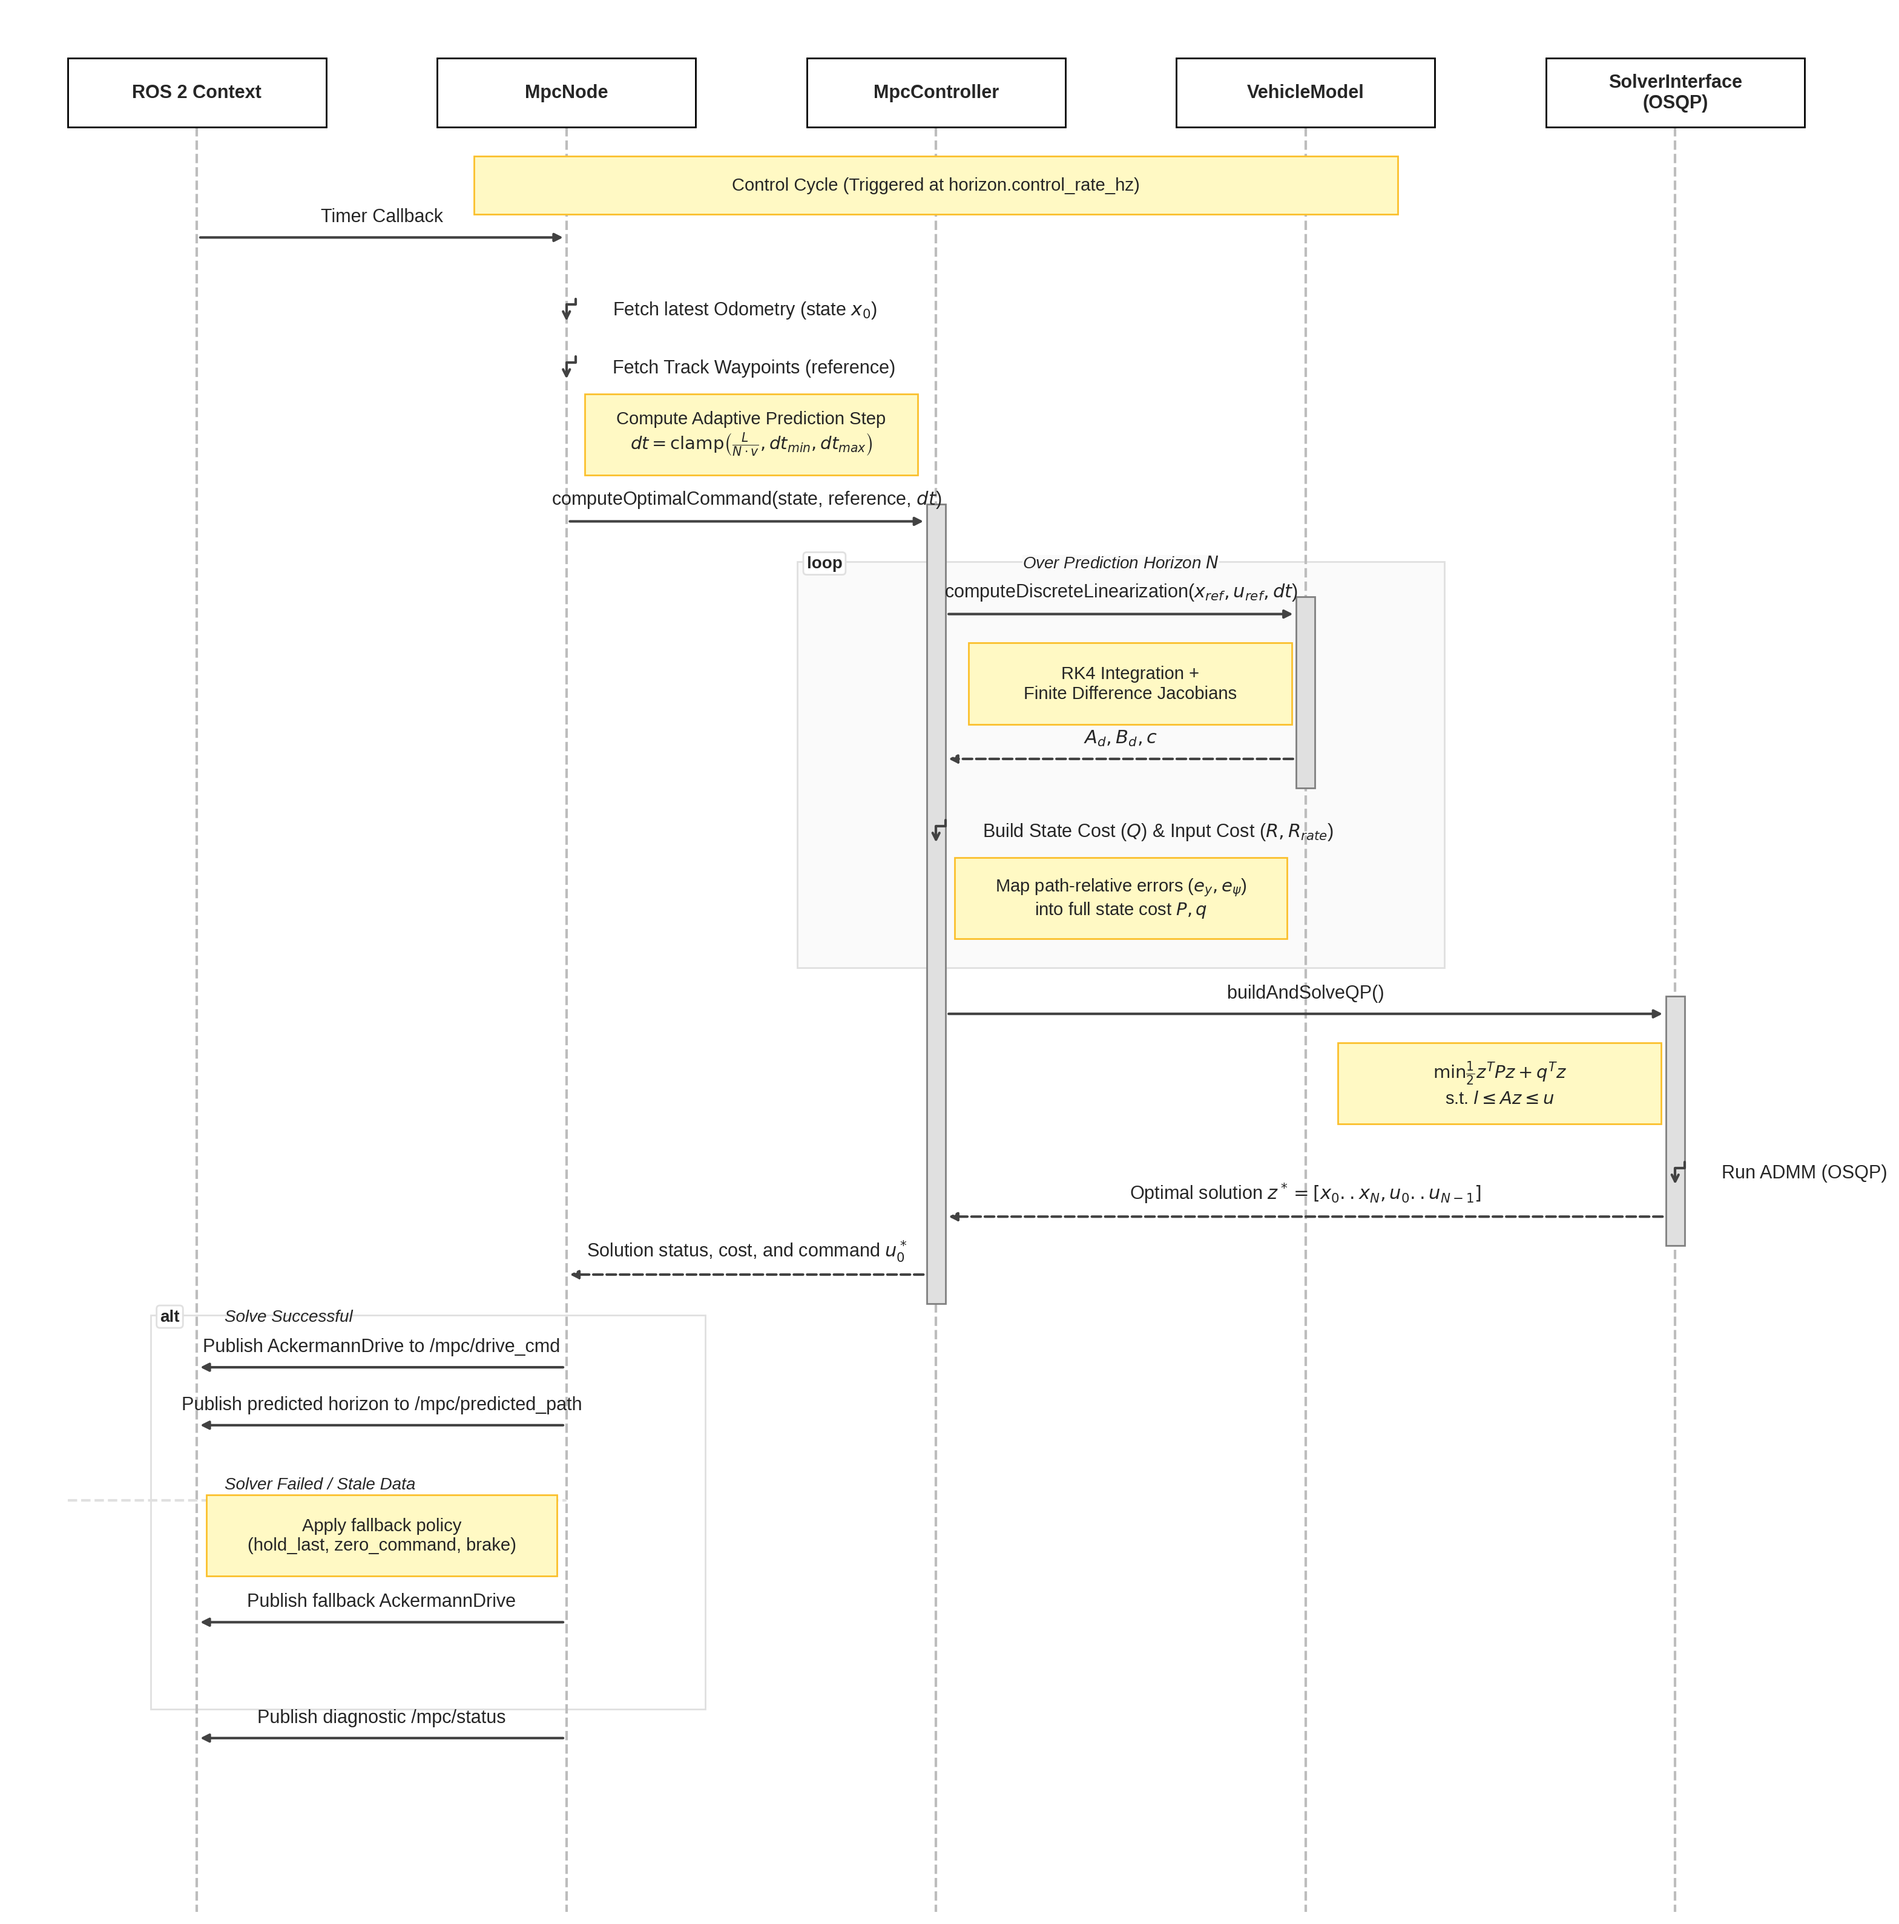
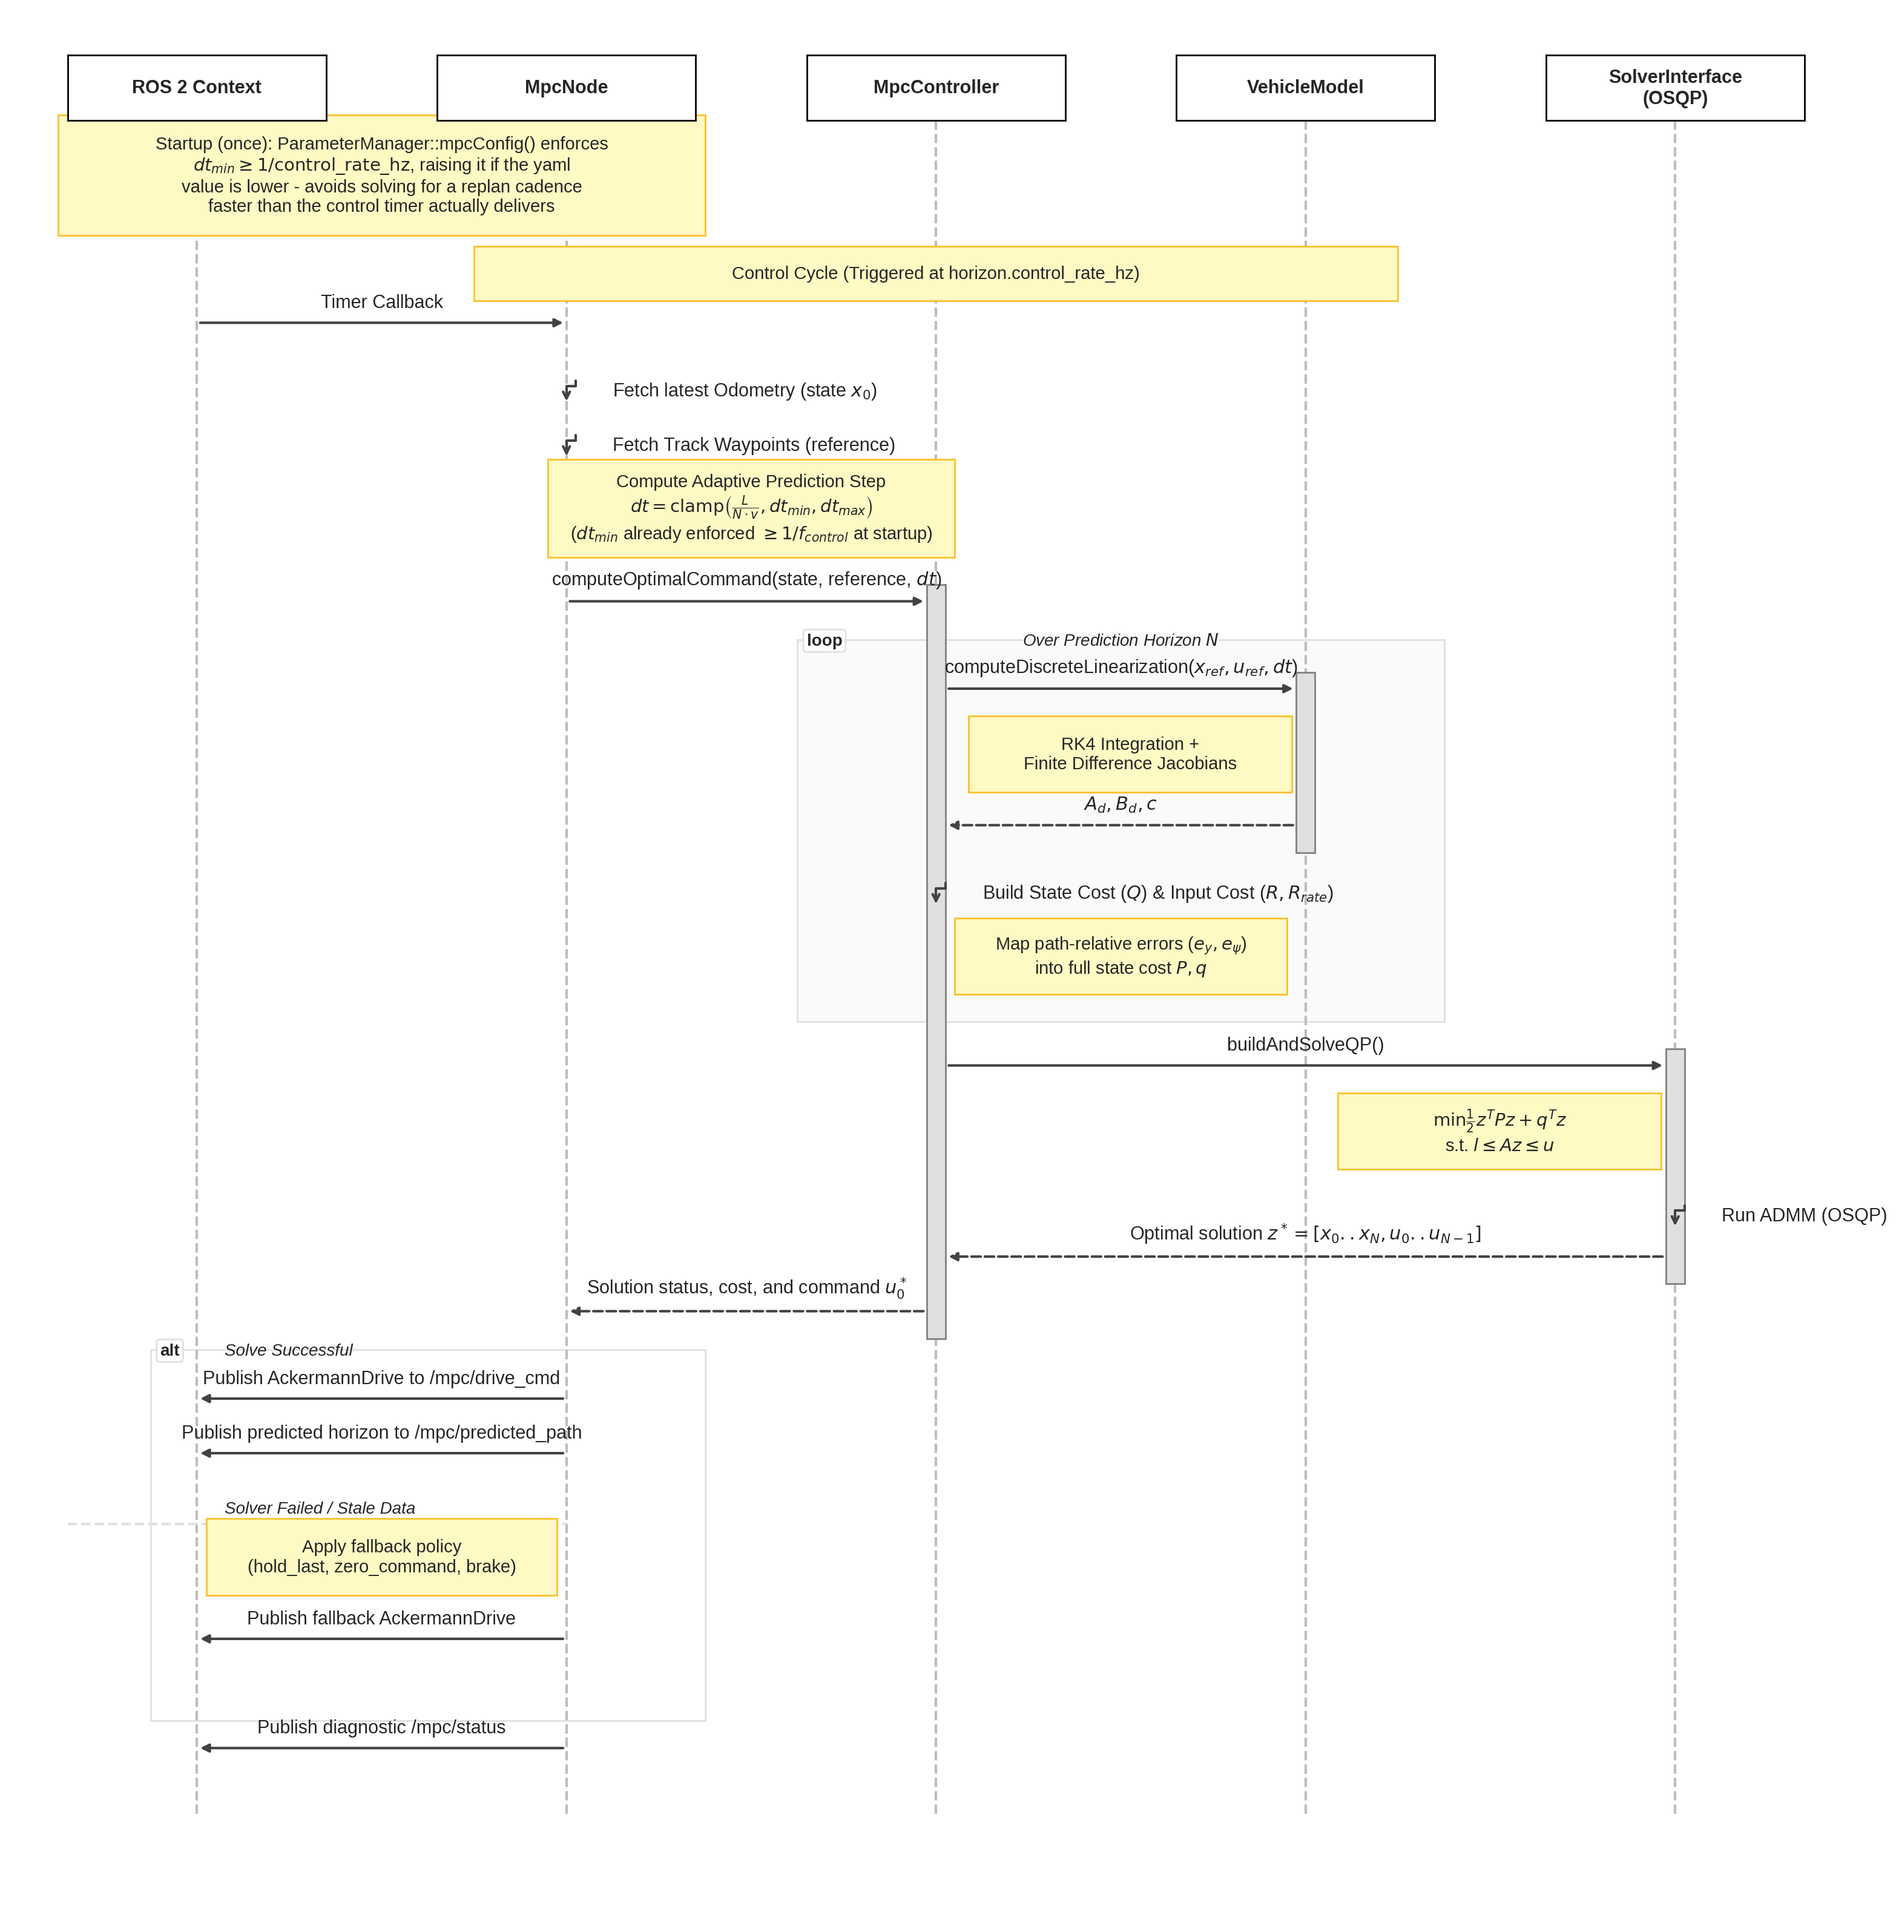
[Adjust] MPC sequence

diff --git a/docs/scripts/plot_mpc_sequence.py b/docs/scripts/plot_mpc_sequence.py
@@ -96,7 +96,14 @@ def draw_activation(x, y_start, y_end):
 
 # ── Sequence Diagram Steps ──
 
-y = draw_note((participants["ROS 2 Context"] + participants["SolverInterface\n(OSQP)"]) / 2, y, 
+y = draw_note((participants["ROS 2 Context"] + participants["MpcNode"]) / 2, y,
+              r"Startup (once): ParameterManager::mpcConfig() enforces" + "\n" +
+              r"$dt_{min} \geq 1/\mathrm{control\_rate\_hz}$, raising it if the yaml" + "\n" +
+              r"value is lower - avoids solving for a replan cadence" + "\n" +
+              r"faster than the control timer actually delivers", width=7.0)
+y -= 0.3
+
+y = draw_note((participants["ROS 2 Context"] + participants["SolverInterface\n(OSQP)"]) / 2, y,
               r"Control Cycle (Triggered at horizon.control_rate_hz)", width=10)
 
 y = draw_arrow(participants["ROS 2 Context"], participants["MpcNode"], y, "Timer Callback")
@@ -104,9 +111,10 @@ y = draw_arrow(participants["MpcNode"], participants["MpcNode"], y, r"Fetch late
 y = draw_arrow(participants["MpcNode"], participants["MpcNode"], y, r"Fetch Track Waypoints (reference)")
 
 y -= 0.4
-y = draw_note(participants["MpcNode"] + 2.0, y, 
+y = draw_note(participants["MpcNode"] + 2.0, y,
               "Compute Adaptive Prediction Step\n"
-              r"$dt = \mathrm{clamp}\left(\frac{L}{N \cdot v}, dt_{min}, dt_{max}\right)$", width=3.6)
+              r"$dt = \mathrm{clamp}\left(\frac{L}{N \cdot v}, dt_{min}, dt_{max}\right)$" + "\n"
+              r"($dt_{min}$ already enforced $\geq 1/f_{control}$ at startup)", width=4.4)
 y -= 0.4
 
 y_activate_ctrl = y + 0.3

diff --git a/docs/mpc_path_tracking.md b/docs/mpc_path_tracking.md
@@ -185,9 +185,9 @@ This keeps the horizon's *look-ahead distance* roughly constant regardless of sp
 
 The MPC controller works by predicting exactly `N=30` steps into the future. If the time between these steps (`dt`) was fixed, the look-ahead distance would be dangerously short at low speeds and stretch too far off the track at high speeds. To solve this, we use a *dynamic* time step that shrinks as speed increases—acting like an automatic zoom lens to keep the car focused on the same stretch of road.
 
-* **Top Panel ($dt$ vs Speed):** At slow speeds, the time step is large (clamped at `dt_max=80ms`) to ensure the prediction reaches far enough ahead. As speed increases, the time step smoothly shrinks down to `dt_min=20ms` to prevent the predictions from stretching too far.
-* **Middle Panel (Look-ahead Distance vs Speed):** In the ideal driving range (roughly 1.2 m/s to 5 m/s), the dynamic `dt` perfectly balances the speed, resulting in a flat look-ahead distance of exactly 3.0 meters. Above 5 m/s, the time step hits its 20ms safety floor. Because `dt` can no longer shrink to compensate for the higher speed, the look-ahead distance naturally and safely increases, giving the fast-moving car more distance to react to upcoming corners.
-* **Bottom Panel (Spatial Coverage):** This demonstrates the physical result. Whether driving at 2 m/s or 7 m/s, the physical coverage of the prediction steps (the dots) remains consistent. The fast car simply executes its steps much more rapidly (every 20ms instead of 67ms) to maintain that coverage.
+* **Top Panel ($dt$ vs Speed):** At slow speeds, the time step is large (clamped at `dt_max=80ms`) to ensure the prediction reaches far enough ahead. As speed increases, the time step shrinks down to `dt_min`, whose floor is not a free tuning value — `ParameterManager::mpcConfig()` enforces `dt_min >= 1/control_rate_hz` at startup, so with the default `control_rate_hz=20` that floor is `50ms`, not the raw yaml default of `20ms`.
+* **Middle Panel (Look-ahead Distance vs Speed):** In the ideal driving range (roughly 1.25 m/s to 2 m/s), the dynamic `dt` perfectly balances the speed, resulting in a flat look-ahead distance of exactly 3.0 meters. Above 2 m/s — i.e. essentially the whole time the car is actually driving — `dt` is pinned at its 50ms floor. Because `dt` can no longer shrink to compensate for the higher speed, the look-ahead distance naturally increases with speed, giving the fast-moving car more distance to react to upcoming corners. This floor is intentionally tied to the control period: letting it drop below `1/control_rate_hz` (e.g. the old 20ms default) would mean the MPC solves assuming it gets to replan sooner than the control timer actually allows, holding `u0` longer than the model assumed — see "Known issue" below.
+* **Bottom Panel (Spatial Coverage):** This demonstrates the physical result. Whether driving at 2 m/s or 7 m/s, the physical coverage of the prediction steps (the dots) remains consistent. The fast car simply executes its steps much more rapidly (every 50ms instead of 67ms) to maintain that coverage.
 
 ### Known issue: `dt_min` must not be shorter than the control period
 
